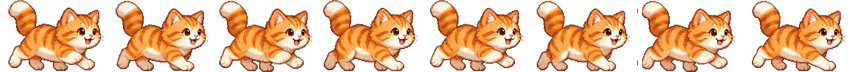
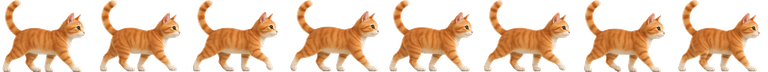
fix(pet): 走路不再滑步（残余过渡 + 步幅配平）+ 三只重画为平滑渲染
用户反馈"走起来生硬、最后还要滑步"，查下去是两层的账：

1) 残余滑动（代码 bug）：.critter 的 transition:left 1.2s 而状态机每 110ms 写一次
   left —— 停下时腿已定格，在途过渡还要滑满 1.2 秒。改成 120ms（≈tick）。

2) 脚打滑（素材 × 参数）：地面速度必须 ≤ 步幅 ÷ 循环时长，而旧参数 SW*0.004
   （1920 屏 ≈70px/s）碰上狗只有 8.6px 的步幅（10% 身宽）→ 打滑 4.9 倍。
   - 帧循环 1s → 0.6s
   - 速度改为按宠物分别取（PET_STRIDE ÷ 循环 ÷ tick），换素材只改这张表
   - 用绝对像素而非 SW 比例（否则 4K 屏自动加速到 140px/s）

3) "生硬"（素材风格）：旧三张是像素风（边缘锐度 61.9/62.0/54.1），睡姿帧却是
   平滑渲染（13.9）。重画三张走路图，要求写死版式（同一行 8 只、间隔 ≥40px、不许
   粘连）与迈步（触地前爪相对身体后移 1/3 身长）+ 平滑 2.5D 渲染：
   - 步幅：狗 8.6→19.5、兔 21.7→23.1、猫 21.3→13.4（猫速度跟着降到 22px/s）
   - 边缘锐度：狗 42.7、兔 46.0、猫 49.5（公平基准 47~52）→ 与睡姿风格一致
   - make-walk-sheet.py 增测 stride 并给出 400/600/800ms 循环下的速度上限
   - chatgpt-gen-image.mjs 修发送通道：合成 Enter 必须带 text:'\r'（否则被吞，
     实测 composer 留住整段提示词、页面零消息）；发送校验改为多路宽松判据
     （composer 清空/停止按钮/消息入页，轮询 10s），避免误判后开新会话中断生成

验证：headless Chrome 实测 狗 31.3 / 猫 21.5 / 兔 37.1 px/s（理论 32.5/22.3/38.4）；
残余滑动 0px；walkcycle@600ms + stepbob@300ms + transition 0.12s 均在计算样式核对；
部署实例与构建产物二进制 md5 一致。对比图 walk-old-vs-new.png。

diff --git a/src-tauri/embedded/pet.html b/src-tauri/embedded/pet.html
@@ -4,7 +4,7 @@ body{margin:0;background:transparent;overflow:hidden;user-select:none}
 /* 底部横条舞台：只有 220px 高，绝不全屏铺 absolute —— 全铺布局会触发
    透明窗合成死区（历史教训） */
 #stage{position:fixed;left:0;right:0;bottom:0;height:220px}
-.critter{position:absolute;bottom:110px;width:150px;height:170px;display:flex;flex-direction:column;align-items:center;justify-content:flex-end;transition:left 1.2s linear;cursor:grab;touch-action:none}
+.critter{position:absolute;bottom:110px;width:150px;height:170px;display:flex;flex-direction:column;align-items:center;justify-content:flex-end;transition:left 120ms linear;cursor:grab;touch-action:none}
 /* 拖动中：去掉 left 的 1.2s 缓动（否则宠物追不上光标），并换成抓取光标 */
 body.dragging .critter{transition:none;cursor:grabbing}
 body.dragging .critter *{cursor:grabbing}
@@ -16,25 +16,25 @@ body.dragging .critter *{cursor:grabbing}
 /* 雪碧图真值：8 帧 × 86.75px = 694×218，帧内容在纵向 0..71。元素只开 86px 视窗，
    steps(8) 总位移 694px ⇒ 每步 86.75px = 恰好一帧。此两处若写成 5552(=694×8)，
    素材会被横向拉伸 8 倍、纵向压扁 3 倍，狗变成一条涂抹（历史 bug）。 */
-#dog-run.sheet{width:86px;height:72px;background-image:url("walk-sheet.png");background-size:694px 218px;background-repeat:no-repeat;animation:walkcycle 1s steps(8) infinite}
-@keyframes walkcycle{from{background-position:0 0}to{background-position:-694px 0}}
+#dog-run.sheet{width:100px;height:72px;background-image:url("walk-sheet.png");background-size:824px 72px;background-repeat:no-repeat;animation:walkcycle .6s steps(8) infinite}
+@keyframes walkcycle{from{background-position:0 0}to{background-position:-824px 0}}
 body:not(.walking) #dog-run.sheet{animation:none;background-position:0 0}
 #dog-run{transition:transform .3s}
-body.walking #dog-run{animation:walkcycle 1s steps(8) infinite,stepbob .5s ease-in-out infinite}
+body.walking #dog-run{animation:walkcycle .6s steps(8) infinite,stepbob .3s ease-in-out infinite}
 /* 橘猫走路雪碧图：8 帧 × 107px = 856×72（生成图 2172×724 → 去白底 → 等分切帧 → 缩放到 72 高） */
-#cat-run.sheet{width:104px;height:72px;background-image:url("cat-walk-sheet.png");background-size:856px 72px;background-repeat:no-repeat;animation:catwalk 1s steps(8) infinite}
-@keyframes catwalk{from{background-position:0 0}to{background-position:-856px 0}}
+#cat-run.sheet{width:93px;height:72px;background-image:url("cat-walk-sheet.png");background-size:768px 72px;background-repeat:no-repeat;animation:catwalk .6s steps(8) infinite}
+@keyframes catwalk{from{background-position:0 0}to{background-position:-768px 0}}
 body:not(.walking) #cat-run.sheet{animation:none;background-position:0 0}
-body.walking #cat-run{animation:catwalk 1s steps(8) infinite,stepbob .5s ease-in-out infinite}
+body.walking #cat-run{animation:catwalk .6s steps(8) infinite,stepbob .3s ease-in-out infinite}
 /* 灰兔走路雪碧图：8 帧 × 88px = 704×72 */
-#rabbit-run.sheet{width:85px;height:72px;background-image:url("rabbit-walk-sheet.png");background-size:704px 72px;background-repeat:no-repeat;animation:rabbitwalk 1s steps(8) infinite}
-@keyframes rabbitwalk{from{background-position:0 0}to{background-position:-704px 0}}
+#rabbit-run.sheet{width:79px;height:72px;background-image:url("rabbit-walk-sheet.png");background-size:656px 72px;background-repeat:no-repeat;animation:rabbitwalk .6s steps(8) infinite}
+@keyframes rabbitwalk{from{background-position:0 0}to{background-position:-656px 0}}
 body:not(.walking) #rabbit-run.sheet{animation:none;background-position:0 0}
-body.walking #rabbit-run{animation:rabbitwalk 1s steps(8) infinite,stepbob .5s ease-in-out infinite}
+body.walking #rabbit-run{animation:rabbitwalk .6s steps(8) infinite,stepbob .3s ease-in-out infinite}
 /* .crit-run 只是"当前跑图"的标记类（三个跑图元素都是雪碧图 div.sheet，尺寸与帧动画各自声明），
    setFace() 用它统一施加转向 scale */
 .crit-run{height:72px}
-body.walking .crit-run{animation:stepbob .5s ease-in-out infinite}
+body.walking .crit-run{animation:stepbob .3s ease-in-out infinite}
 /* 白描边+投影让宠物在任何背景上都看得见。注意用 .sprite 而非 img.sprite——
    狗的跑图是 div（雪碧图），原选择器把它漏掉了，走路态因此没有描边。 */
 .sprite{filter:drop-shadow(0 0 1.5px rgba(255,255,255,.9)) drop-shadow(0 2px 3px rgba(255,255,255,.5)) drop-shadow(0 5px 12px rgba(0,0,0,.5));transform-origin:center;-webkit-user-drag:none;user-select:none}
@@ -189,6 +189,24 @@ critter.addEventListener('pointermove',onDragMove);
 critter.addEventListener('pointerup',endDrag);
 critter.addEventListener('pointercancel',endDrag);
 window.addEventListener('blur',endDrag);
+// 步速必须与雪碧图的步幅自洽，否则就是"冰上滑"（用户反馈的"滑步"）。
+// 实测「一个 8 帧循环里，脚（最低墨迹重心）相对身体前后移动多少像素」：
+//   狗 19.5px（20%，换图前 8.6px）/ 猫 13.4px（14%，换图前 21.3px）/ 兔 23.1px（29%）
+// 循环 0.6s 时，脚踩住地面的速度上限 = 步幅 ÷ 0.6s → 狗 32.5 / 猫 22.3 / 兔 38.4 px/s。
+// 旧参数 SW*0.004（1920 屏 ≈70px/s）对狗曾经是上限的 4.9 倍 —— 整段路都在打滑。
+// 所以按宠物分别取速度（换素材就改这张表；想跑更快只能重画步幅更大的雪碧图）；
+// 另外用绝对像素而不是 SW 比例，否则 4K 屏上会自己加速到 140px/s。
+var WALK_CYCLE_S=0.6;
+// 三只于 2026-09-30 全部换过素材（旧图边缘锐度 54~62 = 像素风，且狗的步幅只有 8.6px
+// → 必须慢跑到 14px/s 才不打滑）。新图边缘锐度 42~50（≈参考图缩到 72 高的基准
+// 47~52，即平滑渲染），步幅也变大：狗 8.6→19.5、兔 21.7→23.1；猫 21.3→13.4
+// （猫这张步幅小了些，速度表会跟着降到 22px/s，仍然不打滑）。
+var PET_STRIDE={dog:19.5, cat:13.4, rabbit:23.1};
+function walkPxPerTick(){
+  var pet=PETS[petIdx];                       // PETS 在下方定义，运行时才求值
+  var stride=PET_STRIDE[pet&&pet.id]||8.6;
+  return stride/WALK_CYCLE_S*0.110;           // 每 110ms tick 的位移
+}
 function liveNow(){return Date.now()-lastLive<8000;}
 setInterval(function(){
   SW=window.innerWidth;
@@ -201,7 +219,7 @@ setInterval(function(){
     }
     if(state==='walk'){
       if((dir>0&&dogX>=walkTarget-2)||(dir<0&&dogX<=walkTarget+2)){state='pause';stateUntil=now+2000+Math.random()*3000;}
-      else setDog(dogX+dir*(SW*0.004));
+      else setDog(dogX+dir*walkPxPerTick());
     }
     // 转向只翻转宠物跑图（铭牌文字永不镜像）
     if(dir!==petFace)setFace(dir);

diff --git a/src-tauri/scripts/make-walk-sheet.py b/src-tauri/scripts/make-walk-sheet.py
@@ -115,4 +115,26 @@ def main():
     print(f"CSS: #x-run.sheet{{width:{max(f.size[0] for f in frames_out)}px;height:{CH}px;background-size:{sheet.size[0]}px {CH}px}} "
           f"@keyframes xw{{from{{background-position:0 0}}to{{background-position:-{sheet.size[0]}px 0}}}} steps({len(frames_out)})")
 
+    # ── 步幅（stride）：脚（最低墨迹）在一个循环里相对身体前后移动多少像素 ──
+    # 这个数直接决定"脚不打滑"的地面速度上限 = 步幅 / 循环时长。
+    # 步幅太小是"跑起来像在冰上滑"的根因：狗 8.6px / 猫 10.0px / 兔 5.8px（旧素材）
+    # 配 1s 循环只能走 <10px/s，而当时身体跑 70px/s → 打滑 8 倍。
+    feet = []
+    for f in frames_out:
+        a = np.array(f)
+        ys, xs = np.nonzero(a[:, :, 3] > 40)
+        if len(ys) == 0:
+            feet.append(None)
+            continue
+        low = ys.max()
+        feet.append(float(xs[ys >= low - 3].mean()))
+    valid = [x for x in feet if x is not None]
+    stride = (max(valid) - min(valid)) if valid else 0.0
+    body_w = max(f.size[0] for f in frames_out)
+    print("逐帧脚位(最低3行重心x):", [None if x is None else round(x, 1) for x in feet])
+    print(f"步幅 stride = {stride:.1f}px  （{stride / body_w * 100:.0f}% 身宽；<20% 会明显打滑）")
+    for cycle_ms in (400, 600, 800):
+        print(f"  循环 {cycle_ms}ms → 脚不打滑的地面速度 ≈ {stride / (cycle_ms / 1000):.1f} px/s"
+              f"（≈{stride / (cycle_ms / 1000) * 0.110:.2f}px / 110ms tick）")
+
 main()
